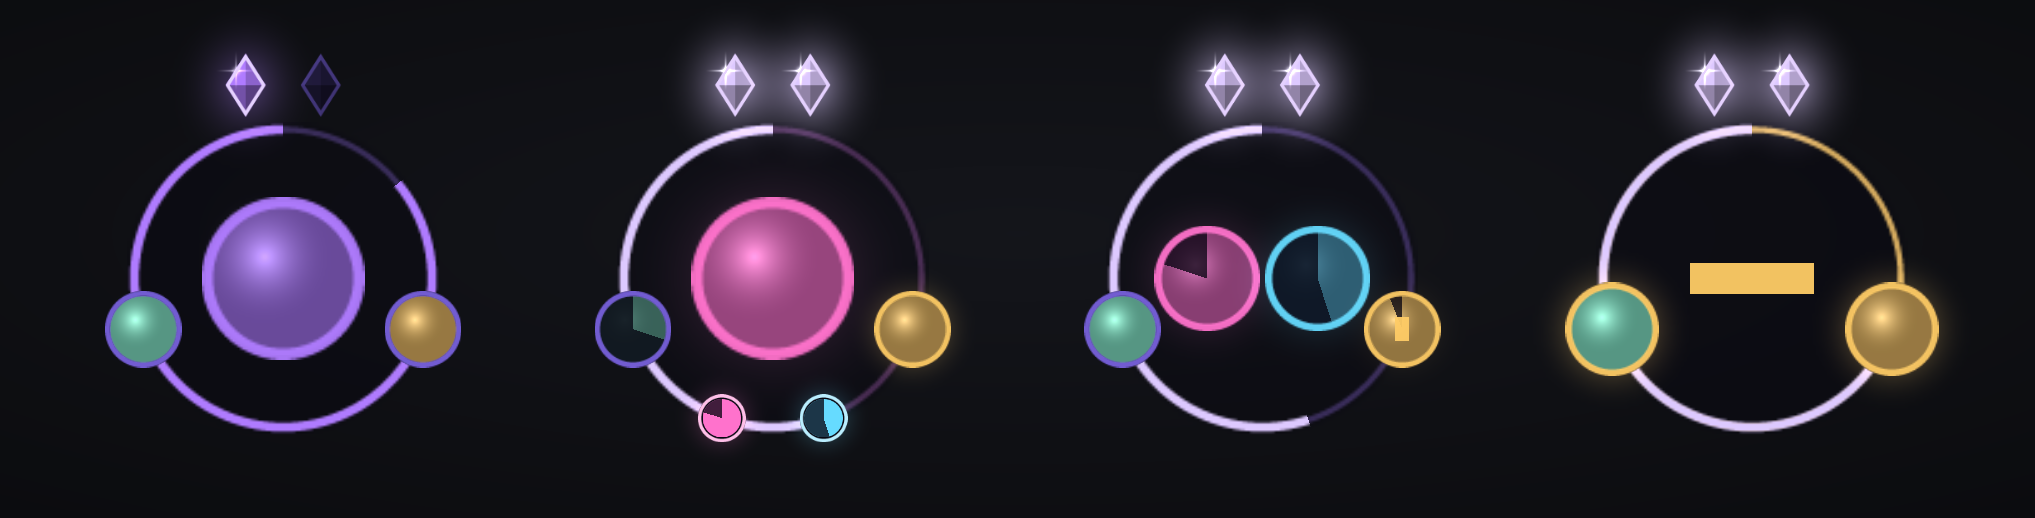
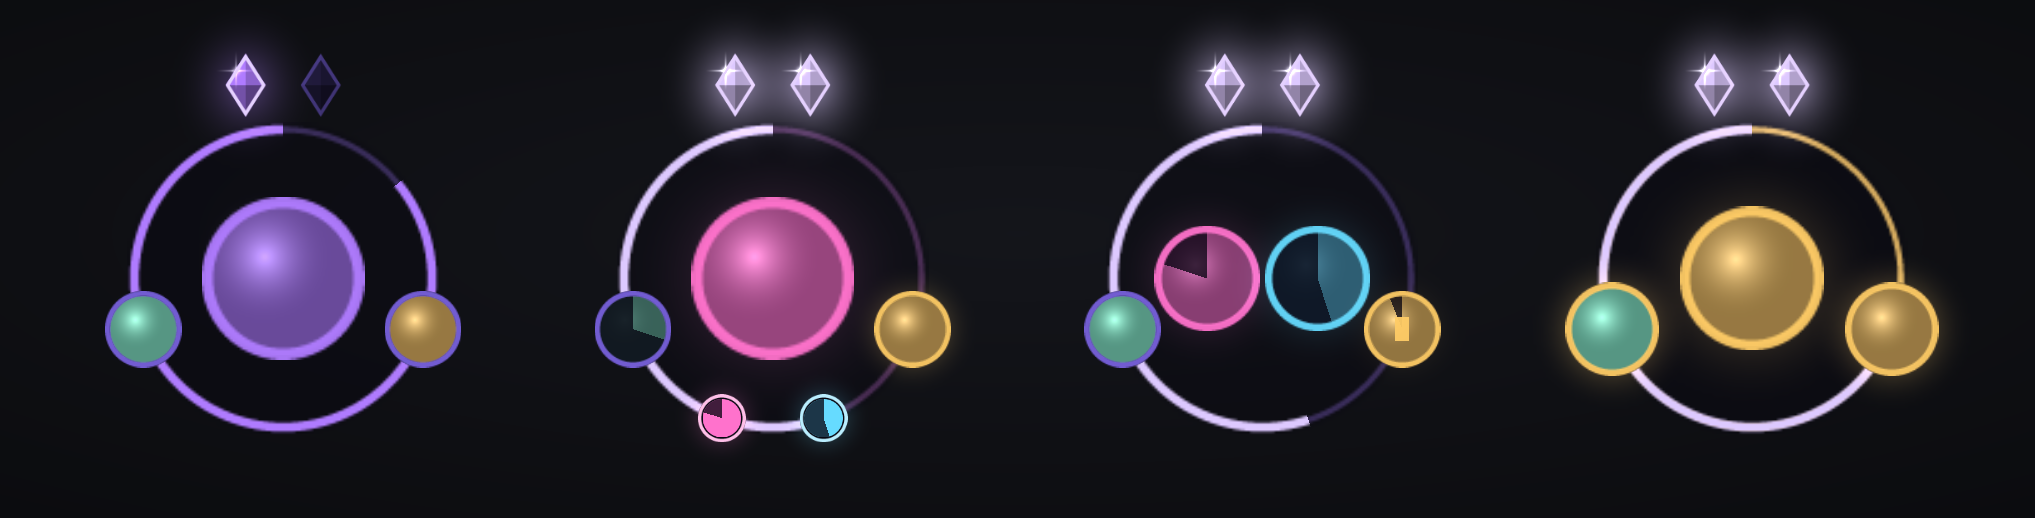
Arcanum 0.12.1 : au centre, l'icône du sort de burst à lancer (à la place du mot)
Au moment du burst, en mode suivi seul, le centre montre l'icône du sort
à claquer, cerclée d'or : Pouvoir des Arcanes, puis Eurêka, puis Présence
spirituelle, puis le Courroux qui en profite.

Changed region(s): [[0.8049, 0.4015, 0.8978, 0.6795]]

diff --git a/tools/test/run_tests.py b/tools/test/run_tests.py
@@ -713,24 +713,25 @@ def main():
     played = lambda name: len([p for p in (s.M.soundFiles or {}).values() if p.endswith(name + ".ogg")])
     check(s.S.burst.on is True and gems["power"].cue is True and played("burst") == 1,
           "le moment du burst arrive : le son est joué une fois")
-    word = s.ns.Hud.cueText
-    check(word._text == "Burst" and word._alpha > 0.9, "et le mot « Burst » s'écrit au centre du cercle")
+    word = s.ns.Hud.cueIcon
+    check(word.key == "power" and word._alpha > 0.9, "et l'icône du Pouvoir des Arcanes s'affiche au centre du cercle")
     s.M.advance(4)
     check(played("burst") == 1, "4 s plus tard : pas encore de rappel")
     s.cast(AP, 0.4)
     s.M.advance(4)
     check(s.S.burst.on is True and gems["pom"].cue is True and played("burst") == 1,
           "un gros temps de recharge lancé relance le délai pour les suivants")
+    check(word.key == "eureka" and word._alpha > 0.9, "au centre, l'icône passe au sort suivant : Eurêka")
     s.M.advance(2.5)
     check(played("burst") == 2, "6 s sans rien lancer : l'onde et le son du burst sont redonnés")
     s.M.advance(3)
     check(played("burst") == 2, "une seule fois")
     s.M.proc("Barrage de projectiles", 400588)
     s.M.advance(0.5)
-    check(word._alpha == 0, "un proc arrive : le mot laisse le centre à son icône")
+    check(word._alpha == 0, "un proc arrive : l'icône de burst laisse le centre à celle du proc")
     s.run('SlashCmdList.ARCANUM("conseil")')
     s.M.advance(0.5)
-    check(word._alpha == 0, "mode conseil : pas de mot, le centre montre le sort")
+    check(word._alpha == 0, "mode conseil : pas d'icône de burst en plus, le centre montre le sort conseillé")
     no_errors(s, "bientôt prêt, rappel")
 
     q = Game()

diff --git a/tools/preview.py b/tools/preview.py
@@ -189,8 +189,8 @@ def hud(cx, cy, stacks, target, reason, tint, window, cooldowns, procs=(), stage
         for pcol, left in stage:
             round_icon(x, cy, size, pcol, pcol, glow=0.40, cooldown=1 - left)
             x += size + 6
-        if cue and not stage:   # le mot « Burst », en or (aplat)
-            blit(None, cx, cy, 52, 13, C["power"], 0.95)
+        if cue and not stage:   # l'icône du sort de burst à lancer, cerclée d'or
+            round_icon(cx, cy, 56, C["power"], C["power"], glow=0.50)
     # un cristal par charge visée (un de plus quand le jeu en offre une), au-dessus du cercle
     shown = min(4, max(target, stacks))
     for i in range(shown):

diff --git a/README.md b/README.md
@@ -25,7 +25,7 @@ Pour un son hors liste : `/arc son 888` fait entendre le son de cet identifiant,
 
 **Mode suivi seul.** Si tu préfères décider toi-même, le réglage « Prochain sort conseillé » (ou `/arc conseil`) retire le conseil. Le centre du cercle devient alors la scène des procs : chaque proc actif s'y affiche en grande icône (celle du sort qu'il améliore), cerclée de sa couleur, avec le temps restant. Les charges, leur fenêtre et les gros temps de recharge restent à leur place.
 
-Dans ce mode, Arcanum te dit quand même **quand claquer ton burst**, pour ne pas l'oublier : au bon moment (charges visées atteintes, Colère prête, aucun proc à dépenser d'abord), le mot « Burst » s'écrit en or au centre du cercle, les gemmes des temps de recharge prêts grossissent et battent en or, l'anneau passe à l'or, une onde dorée part du cercle et le son du burst retentit. Une gemme a donc quatre états : grisée (en recharge), cerclée d'or avec un chiffre (prête dans quelques secondes), nette (prête, mais ce n'est pas le moment), dorée, agrandie et battante (maintenant). Si le signal reste allumé 6 secondes sans que tu lances un de ces sorts, l'onde et le son sont redonnés une fois (réglage « Rappel du burst », de 2 à 12 secondes, ou « non »). Le réglage « Signaler le moment du burst » coupe le tout.
+Dans ce mode, Arcanum te dit quand même **quand claquer ton burst**, pour ne pas l'oublier : au bon moment (charges visées atteintes, Colère prête, aucun proc à dépenser d'abord), l'icône du sort à lancer s'affiche au centre du cercle, cerclée d'or (Pouvoir des Arcanes, puis Eurêka, puis Présence spirituelle, puis le Courroux qui en profite), les gemmes des temps de recharge prêts grossissent et battent en or, l'anneau passe à l'or, une onde dorée part du cercle et le son du burst retentit. Une gemme a donc quatre états : grisée (en recharge), cerclée d'or avec un chiffre (prête dans quelques secondes), nette (prête, mais ce n'est pas le moment), dorée, agrandie et battante (maintenant). Si le signal reste allumé 6 secondes sans que tu lances un de ces sorts, l'onde et le son sont redonnés une fois (réglage « Rappel du burst », de 2 à 12 secondes, ou « non »). Le réglage « Signaler le moment du burst » coupe le tout.
 
 L'ordre conseillé part du guide Method (patch 1.60.1), adapté à ce qui se mesure en jeu : chaque charge double le coût de la Déflagration suivante, et rien ne les consomme pendant leurs 18 secondes. Arcanum vise donc un nombre de charges (**2 par défaut**, réglable à 3 ou 4 dans `/arc`), puis en profite avec des sorts qui ne coûtent pas plus cher :
 

diff --git a/CHANGELOG.md b/CHANGELOG.md
@@ -2,7 +2,7 @@
 
 ## 0.12.1 — 12 novembre 2026
 
-- Mode suivi seul : au moment du burst, le mot « Burst » s'écrit en or au centre du cercle, qui restait vide. Il s'efface si un proc s'y affiche.
+- Mode suivi seul : au moment du burst, l'icône du sort à lancer s'affiche au centre du cercle, cerclée d'or. Le centre restait vide. Elle suit l'ordre du burst (Pouvoir des Arcanes, puis Eurêka, puis Présence spirituelle, puis le Courroux qui en profite) et s'efface si un proc s'y affiche.
 
 ## 0.12.0 — 12 novembre 2026
 
